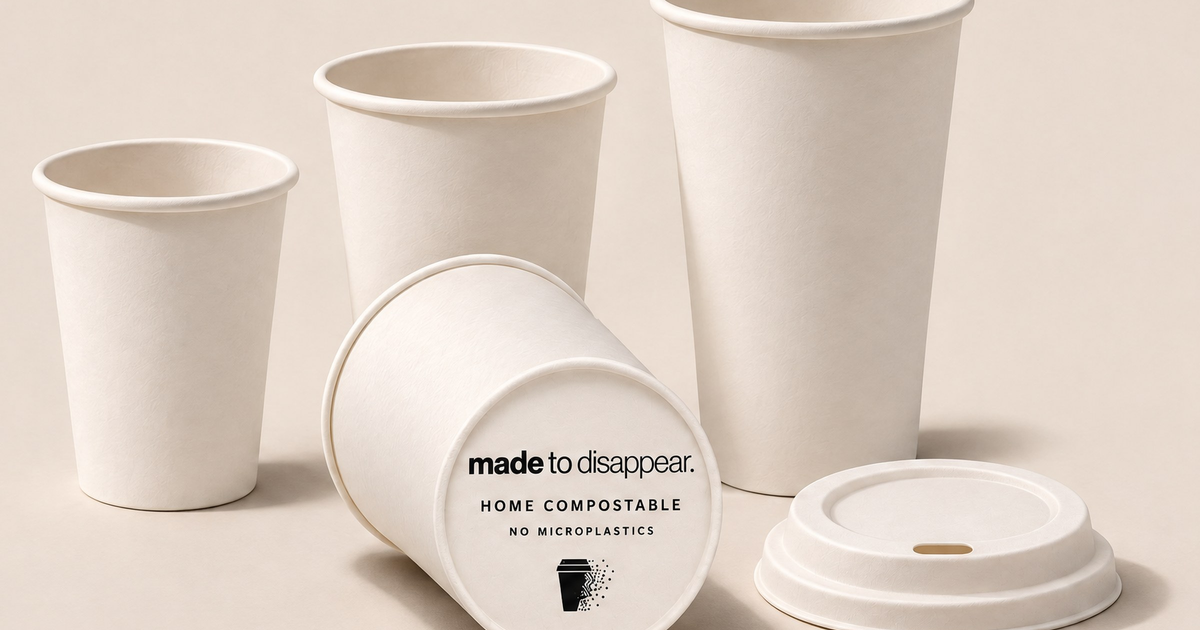
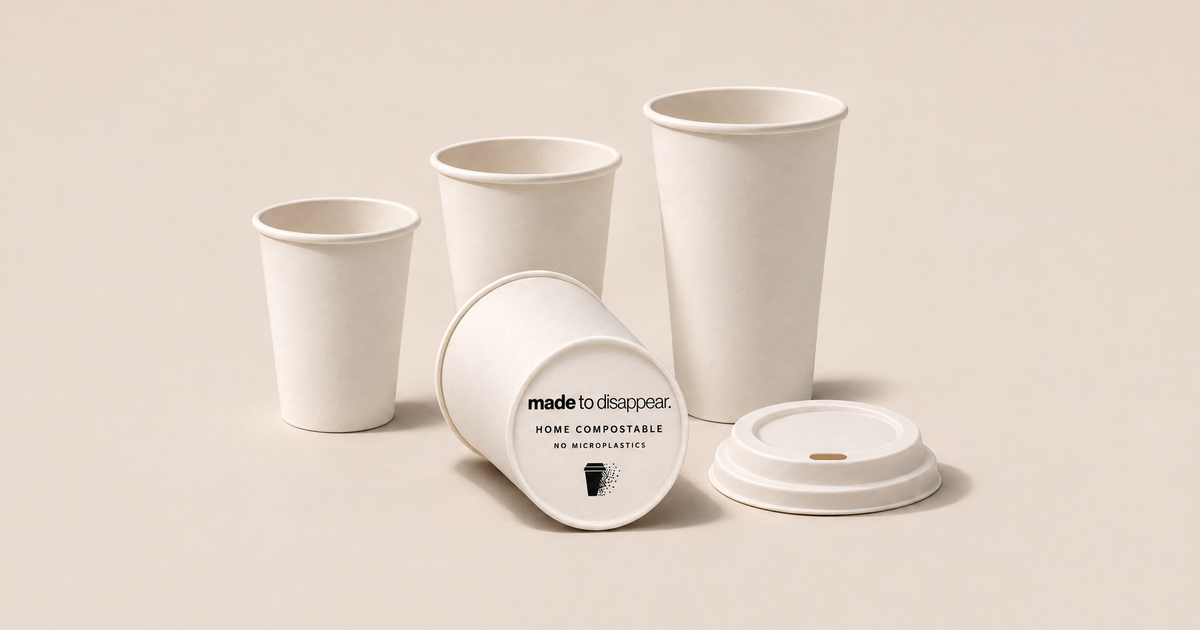
Brand card: hero back to the full centred lineup; tiles stay tight

diff --git a/src/lib/asset-version.ts b/src/lib/asset-version.ts
@@ -3,7 +3,7 @@
  * are replaced: the URLs change, so no browser or CDN keeps serving the old
  * files. next.config.ts allows exactly this query on local images.
  */
-export const ASSET_VERSION = "3";
+export const ASSET_VERSION = "4";
 
 export function v(publicPath: string): string {
   return `${publicPath}?v=${ASSET_VERSION}`;

diff --git a/CLAUDE.md b/CLAUDE.md
@@ -1,6 +1,6 @@
 # Made to Disappear site
 
-- Brand card (branch brand-card, 2026-11-12/13): docs/brand/brand-card-2026-11-12.md records the design card the user supplied in chat (the PDF was not saved) and asked to be applied to the whole site; it supersedes the colour and type guidance in docs/brand-card.md (routes, data model and claims rules there still apply). Palette: bone #EDE8DF page ground, paper #F6F2EB cards/inputs/image wells, ink #111111 text and primary buttons, soil #2A2420 the one dark band per page (the footer), stone #6B675F secondary text, ash #8B877F disabled/coming-soon/borders only, raw bamboo #C4A672 only as a left rule on notes (`.note`). The old token names in globals.css (`--color-forest`, `--color-cream`, `--color-mint`, `--color-sage`, `--color-clay`…) are kept so every utility still works, each remapped to a card colour; a "Brand card layer" at the end of globals.css overrides components: square corners everywhere except `.btn`/`.chip` (a `[class*="rounded-["]` override), no shadows/gradients/glass/mesh/grain, `.card` paper with a hairline and colour-only hover, outlined chips in lowercase, ink primary button + outlined others (one primary per screen; the header button is outlined), `.btn` and nav lowercase via text-transform, headings always ink, `.price-table`/`.spec-table` hairline rows with an ink rule under the header row, `.max-w-7xl` capped at 1120 px with 28 px gutters, Reveal fades only (200 ms), Marquee static. Type: Helvetica Neue / Arial system stack via `--font-display/--font-serif/--font-sans` (no Google fonts; JetBrains Mono stays for SKUs); .t-hero 72/1/700/-0.04em, .t-section 40, .t-page/.t-heading 26, .t-card 19, .t-lead 20/500, .t-label 11.5 caps stone. Headings are lowercase with a period in the copy itself (acronyms stay); PageHeader titles and most h2s were lowercased on 2026-11-13. Home page: hero (product on bone, headline "serve it. then let it go.", one primary + a text link, a hairline fact list), then numbered sections 01 the range (hairline product grid), 02 paper outside. PHA inside. (soil photo + hairline spec list), 03 after the coffee. (breakdown strip + three hairline columns), 04 what it costs. (CostCalculator, hairline receipt), 05 the Inner Harbour (desaturated photo + hairline stats), 06 asked often.; the footer is the only soil band and carries "keep it. then let it go." Photography (2026-11-13, GPT Image 2.6 via Higgsfield from the renders and the badge, masters in docs/brand/generated/60–65): public/hero-bone.jpg (16:9), `[sku]-front.jpg` the 4:5 pair with the base mark, `[sku]-3q.jpg` single standing cups cropped from one three-cup frame, lid front/3q; all on bone #EDE8DF with one hard light and a real shadow. ProductImage frames are 4:5 object-cover. public/icon.png and apple-icon.png are the card's favicon: an ink dot on bone, low and right.  Interaction layer (2026-11-13, after the user said the photos were off-centre and the site had no features): the product photography was regenerated on 2026-11-13 with the subject dead centre and a short soft shadow (GPT Image 2.6, masters docs/brand/generated/80–87: hero lineup, three front pairs, lid pair, three standing cups; visual mass measured within 5% of centre with the scratchpad measure.py), then cut tight so the cups fill the 4:5 frame and bleed top and bottom (user, 2026-11-13: "like this… not in the middle", after a small centred object with wide margins was rejected); re-cropping the first set never looked right because the long hard shadows ran to one edge. Every photo URL carries ?v=ASSET_VERSION from src/lib/asset-version.ts (next.config.ts images.localPatterns allows exactly that query): bump the constant whenever a photo file is replaced, or browsers keep the old file for hours. soil-mark.jpg is a Higgsfield outpaint of the original (master 72), and public/breakdown/1–4.jpg are 4:5 cuts of the 4k-upscaled strip (master 73). The header is transparent until the page scrolls (ScrollState sets data-scrolled; the brand layer then paints it bone with a hairline). Home page: editorial hero (headline left, lead + buttons right, the lineup full width, three facts on a hairline), section numbers pin while their section scrolls (.section-num), SectionRail is a fixed 01–06 index in the left gutter at ≥1360 px, HoverSwap fades product tiles and cards to the standing `-3q` shot on hover (Product.hover from withAssets), BreakdownScrubber is the four-frame well you drag across or pick a stage from (it steps through once on arrival, then only moves when moved), CountUp counts the survey percentages in. All fades, nothing slides. Harnesses: scratchpad hovershot.mjs (hover + screenshot) and scrollshot.mjs. The older passes live on branches calmer-register and draft-blend; the user's standing rules from them still hold (no "per SKU", flat 16/17/18¢ pricing, Learn library, cost calculator as a sentence + receipt).
+- Brand card (branch brand-card, 2026-11-12/13): docs/brand/brand-card-2026-11-12.md records the design card the user supplied in chat (the PDF was not saved) and asked to be applied to the whole site; it supersedes the colour and type guidance in docs/brand-card.md (routes, data model and claims rules there still apply). Palette: bone #EDE8DF page ground, paper #F6F2EB cards/inputs/image wells, ink #111111 text and primary buttons, soil #2A2420 the one dark band per page (the footer), stone #6B675F secondary text, ash #8B877F disabled/coming-soon/borders only, raw bamboo #C4A672 only as a left rule on notes (`.note`). The old token names in globals.css (`--color-forest`, `--color-cream`, `--color-mint`, `--color-sage`, `--color-clay`…) are kept so every utility still works, each remapped to a card colour; a "Brand card layer" at the end of globals.css overrides components: square corners everywhere except `.btn`/`.chip` (a `[class*="rounded-["]` override), no shadows/gradients/glass/mesh/grain, `.card` paper with a hairline and colour-only hover, outlined chips in lowercase, ink primary button + outlined others (one primary per screen; the header button is outlined), `.btn` and nav lowercase via text-transform, headings always ink, `.price-table`/`.spec-table` hairline rows with an ink rule under the header row, `.max-w-7xl` capped at 1120 px with 28 px gutters, Reveal fades only (200 ms), Marquee static. Type: Helvetica Neue / Arial system stack via `--font-display/--font-serif/--font-sans` (no Google fonts; JetBrains Mono stays for SKUs); .t-hero 72/1/700/-0.04em, .t-section 40, .t-page/.t-heading 26, .t-card 19, .t-lead 20/500, .t-label 11.5 caps stone. Headings are lowercase with a period in the copy itself (acronyms stay); PageHeader titles and most h2s were lowercased on 2026-11-13. Home page: hero (product on bone, headline "serve it. then let it go.", one primary + a text link, a hairline fact list), then numbered sections 01 the range (hairline product grid), 02 paper outside. PHA inside. (soil photo + hairline spec list), 03 after the coffee. (breakdown strip + three hairline columns), 04 what it costs. (CostCalculator, hairline receipt), 05 the Inner Harbour (desaturated photo + hairline stats), 06 asked often.; the footer is the only soil band and carries "keep it. then let it go." Photography (2026-11-13, GPT Image 2.6 via Higgsfield from the renders and the badge, masters in docs/brand/generated/60–65): public/hero-bone.jpg (16:9), `[sku]-front.jpg` the 4:5 pair with the base mark, `[sku]-3q.jpg` single standing cups cropped from one three-cup frame, lid front/3q; all on bone #EDE8DF with one hard light and a real shadow. ProductImage frames are 4:5 object-cover. public/icon.png and apple-icon.png are the card's favicon: an ink dot on bone, low and right.  Interaction layer (2026-11-13, after the user said the photos were off-centre and the site had no features): the product photography was regenerated on 2026-11-13 with the subject dead centre and a short soft shadow (GPT Image 2.6, masters docs/brand/generated/80–87: hero lineup, three front pairs, lid pair, three standing cups; visual mass measured within 5% of centre with the scratchpad measure.py), then the product tiles and gallery cut tight so the cups fill the 4:5 frame and bleed top and bottom (user, 2026-11-13: "like this… not in the middle", shown on the range tiles only); the hero keeps the full centred lineup with its margins; re-cropping the first set never looked right because the long hard shadows ran to one edge. Every photo URL carries ?v=ASSET_VERSION from src/lib/asset-version.ts (next.config.ts images.localPatterns allows exactly that query): bump the constant whenever a photo file is replaced, or browsers keep the old file for hours. soil-mark.jpg is a Higgsfield outpaint of the original (master 72), and public/breakdown/1–4.jpg are 4:5 cuts of the 4k-upscaled strip (master 73). The header is transparent until the page scrolls (ScrollState sets data-scrolled; the brand layer then paints it bone with a hairline). Home page: editorial hero (headline left, lead + buttons right, the lineup full width, three facts on a hairline), section numbers pin while their section scrolls (.section-num), SectionRail is a fixed 01–06 index in the left gutter at ≥1360 px, HoverSwap fades product tiles and cards to the standing `-3q` shot on hover (Product.hover from withAssets), BreakdownScrubber is the four-frame well you drag across or pick a stage from (it steps through once on arrival, then only moves when moved), CountUp counts the survey percentages in. All fades, nothing slides. Harnesses: scratchpad hovershot.mjs (hover + screenshot) and scrollshot.mjs. The older passes live on branches calmer-register and draft-blend; the user's standing rules from them still hold (no "per SKU", flat 16/17/18¢ pricing, Learn library, cost calculator as a sentence + receipt).
 - Do not mention shipping speed (no same-day, cutoffs or dispatch times) and never present the round wordmark badge as a certification mark: it is our logo, not TÜV Austria's.
 - The site never shows its own to-do list: no "pending", "TODO" or placeholder values in copy, chips, tables or the PDF. Missing data (certificate numbers, phone) is omitted, not labelled. Ask the user for it in chat instead.
 - Never use the words biodegradable, marine, ocean, landfill, municipal, green bin, eco or planet-friendly in site copy. `npm run lint:copy` enforces this and runs before every build.
